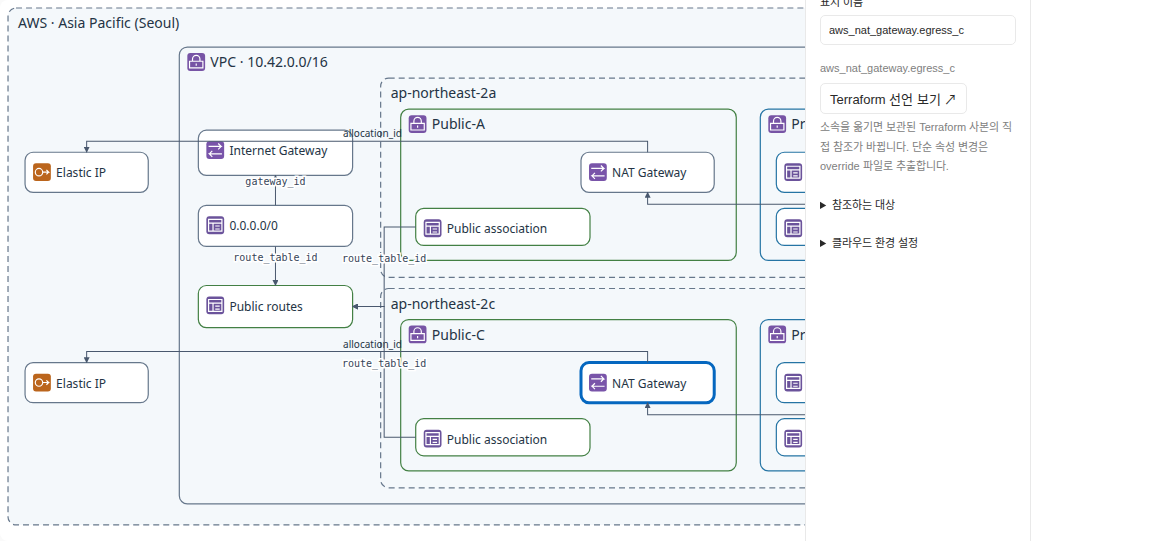
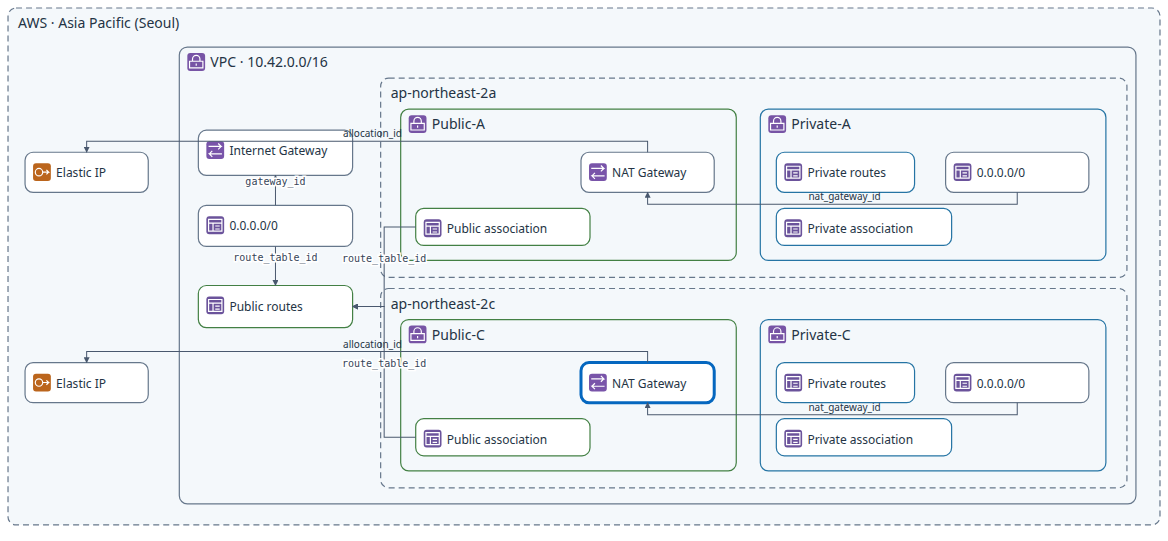
Capture the complete Seoul network diagram for the README

diff --git a/tests/ui/builder.spec.ts b/tests/ui/builder.spec.ts
@@ -186,7 +186,11 @@ test("Seoul case opens both AZs and selects the NAT declaration", async ({page})
   await expect(diagram).toContainText("ap-northeast-2c");
   await diagram.getByRole("button",{name:"NAT Gateway",exact:true}).last().click();
   await expect(page.getByLabel("컴포넌트 표시 이름")).toHaveValue(/egress_c/);
-  await page.setViewportSize({width:1480,height:1000});
   await page.getByRole("button",{name:"확대 보기",exact:true}).click();
-  await diagram.locator("svg").screenshot({path:"test-results/seoul-case.png"});
+  const svg = await diagram.locator("svg").evaluate(el => el.outerHTML);
+  const capture = await page.context().newPage();
+  await capture.setViewportSize({width:1168,height:600});
+  await capture.setContent('<style>body{margin:0}svg{display:block;width:100%}</style>'+svg);
+  await capture.locator("svg").screenshot({path:"test-results/seoul-case.png"});
+  await capture.close();
 });
